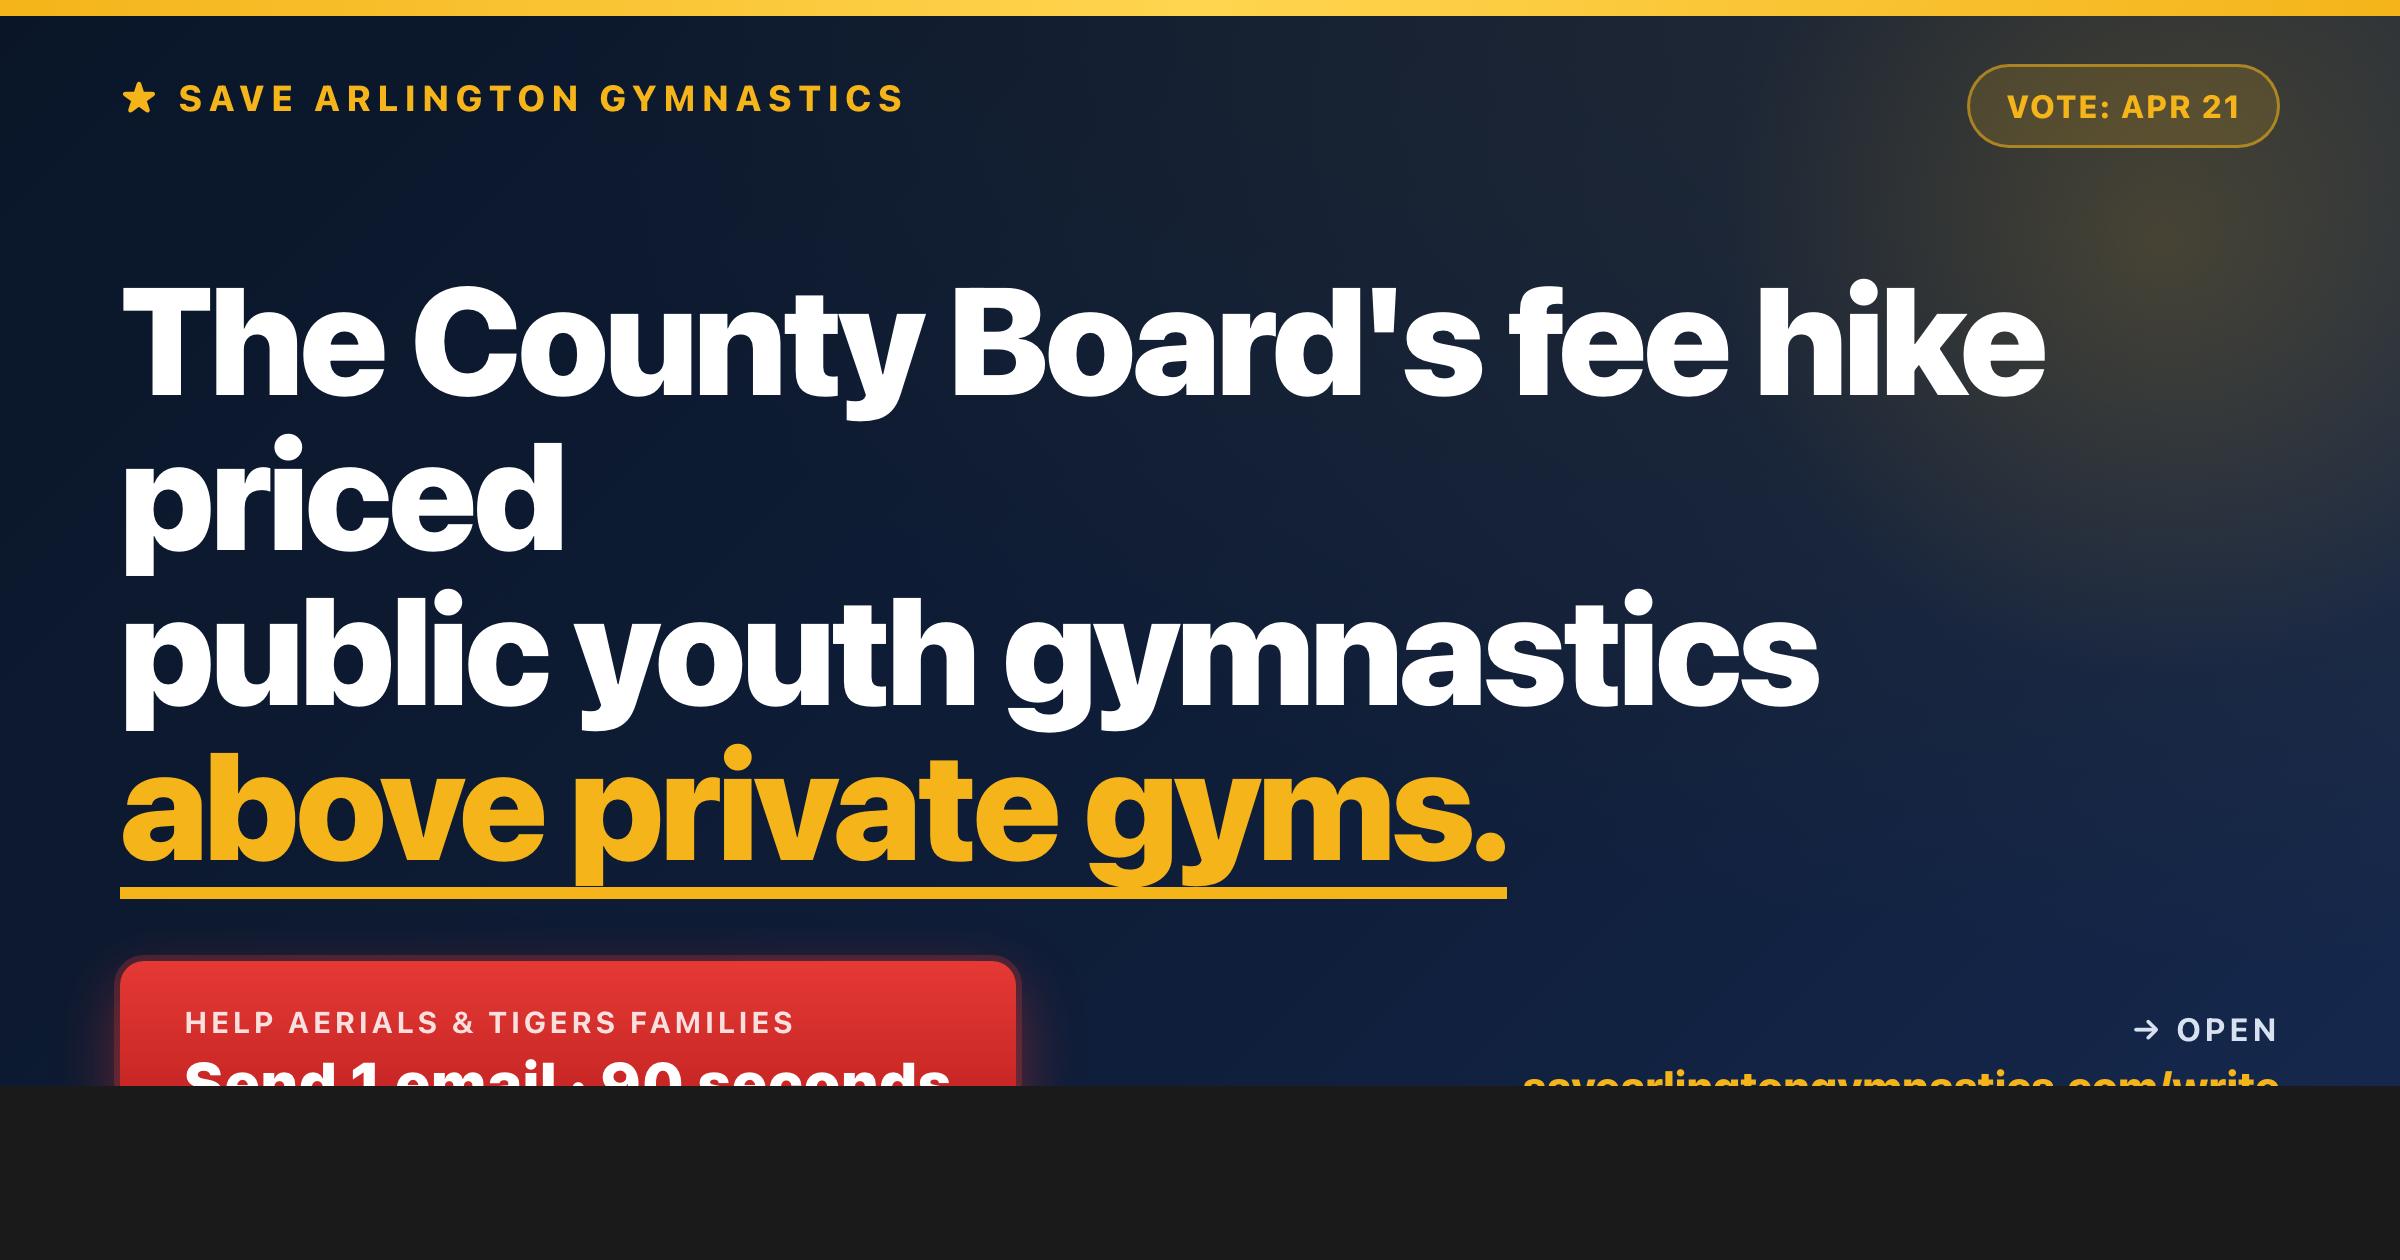
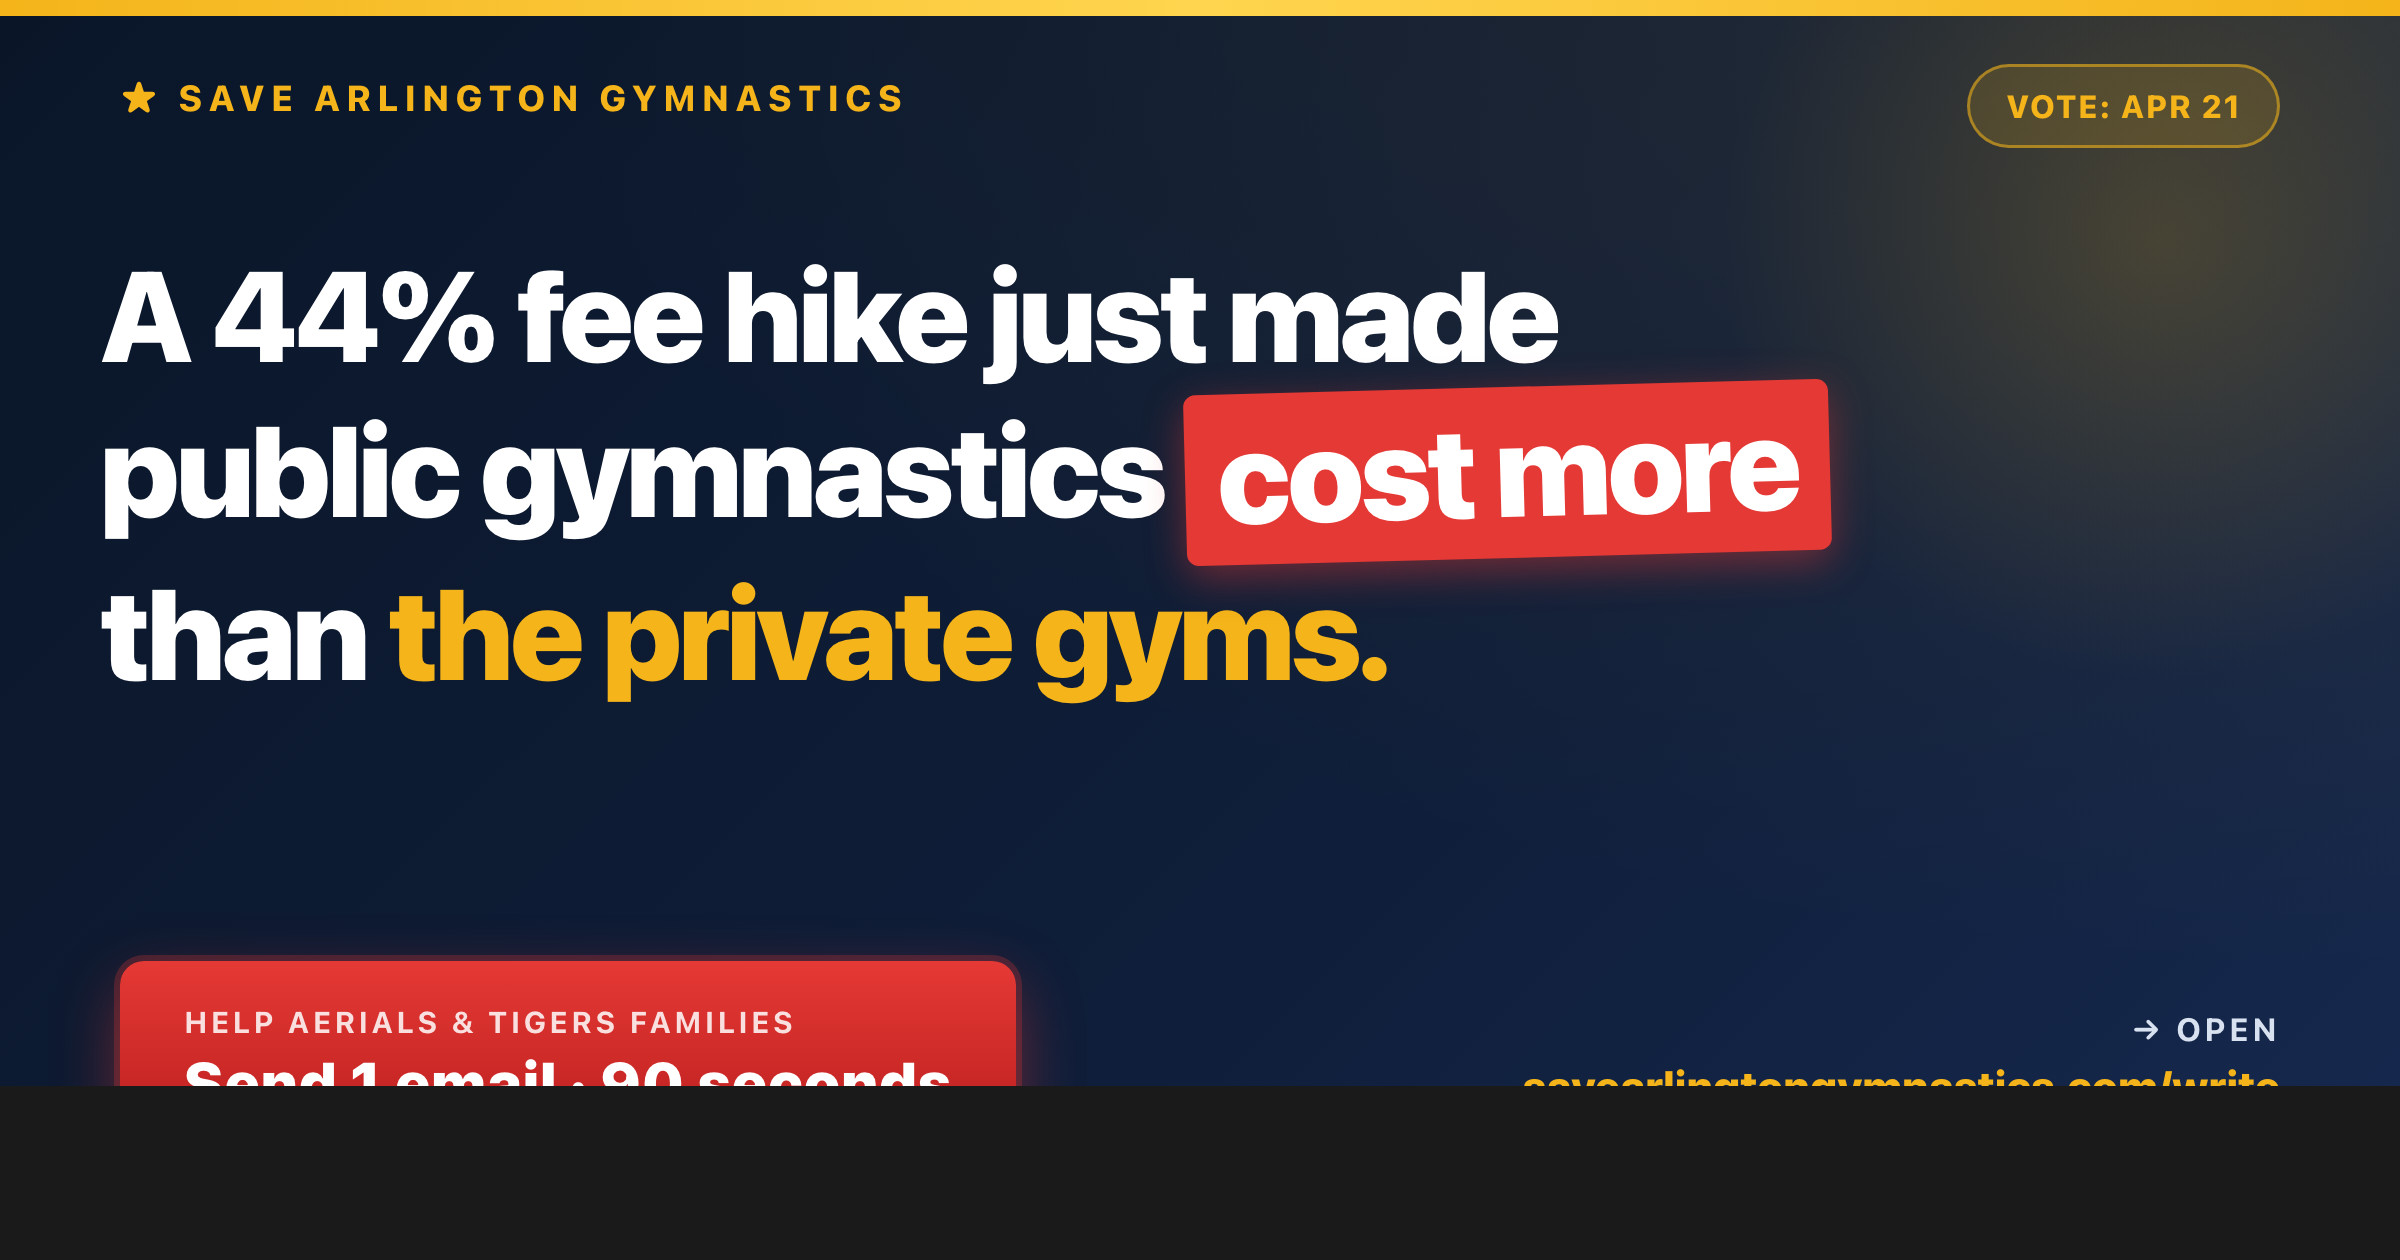
Finalize /write OG image with red-sting variant; align meta descriptions

Changed region(s): [[0.0312, 0.2167, 0.875, 0.5881], [0.0312, 0.5881, 0.625, 0.7119]]

diff --git a/write-og-variants.html b/write-og-variants.html
@@ -1,0 +1,298 @@
+<!DOCTYPE html>
+<html lang="en">
+<head>
+<meta charset="UTF-8">
+<title>OG Variants — Compare</title>
+<link rel="preconnect" href="https://fonts.googleapis.com">
+<link rel="preconnect" href="https://fonts.gstatic.com" crossorigin>
+<link href="https://fonts.googleapis.com/css2?family=Inter:wght@500;700;800;900&display=swap" rel="stylesheet">
+<style>
+  * { box-sizing: border-box; margin: 0; padding: 0; }
+  html, body {
+    background: #1a1a1a;
+    font-family: 'Inter', -apple-system, system-ui, sans-serif;
+    -webkit-font-smoothing: antialiased;
+    padding: 30px 0;
+  }
+  .label {
+    color: #f4b41a;
+    font-weight: 800;
+    font-size: 14px;
+    letter-spacing: 0.15em;
+    text-transform: uppercase;
+    text-align: center;
+    margin: 30px auto 12px;
+    max-width: 1200px;
+  }
+  .label .desc {
+    display: block;
+    color: #aaa;
+    font-size: 13px;
+    font-weight: 500;
+    letter-spacing: 0;
+    text-transform: none;
+    margin-top: 4px;
+  }
+
+  .og {
+    width: 1200px;
+    height: 630px;
+    margin: 0 auto;
+    background:
+      radial-gradient(ellipse at top right, rgba(244,180,26,0.10) 0%, transparent 55%),
+      linear-gradient(135deg, #0a1628 0%, #0f1e3a 60%, #16294f 100%);
+    position: relative;
+    overflow: hidden;
+    color: #ffffff;
+  }
+  .stripe { position:absolute; top:0; left:0; right:0; height:8px;
+    background: linear-gradient(90deg, #f4b41a 0%, #ffd54f 50%, #f4b41a 100%); }
+  .corner-glow { position:absolute; top:-120px; right:-120px; width:480px; height:480px;
+    background: radial-gradient(circle, rgba(244,180,26,0.18) 0%, transparent 65%); pointer-events:none; }
+  .brand { position:absolute; top:38px; left:60px; font-size:18px; font-weight:800; color:#f4b41a;
+    letter-spacing:0.18em; text-transform:uppercase; }
+  .deadline-pill { position:absolute; top:32px; right:60px; background:rgba(244,180,26,0.15);
+    border:1.5px solid rgba(244,180,26,0.55); color:#f4b41a; font-size:16px; font-weight:800;
+    padding:10px 18px; border-radius:999px; letter-spacing:0.05em; text-transform:uppercase; }
+  .cta-band { position:absolute; bottom:50px; left:60px; right:60px;
+    display:flex; align-items:center; justify-content:space-between; gap:32px; }
+  .cta-btn { background:linear-gradient(180deg,#e53935 0%,#b71c1c 100%); color:white;
+    font-size:28px; font-weight:900; padding:22px 32px; border-radius:12px;
+    box-shadow:0 0 0 3px rgba(229,57,53,0.25),0 12px 32px rgba(229,57,53,0.45); line-height:1.1; }
+  .cta-btn .micro { display:block; font-size:15px; font-weight:700;
+    color:rgba(255,255,255,0.85); letter-spacing:0.12em; text-transform:uppercase; margin-bottom:6px; }
+  .cta-btn .main { display:block; font-size:30px; }
+  .url-block { text-align:right; }
+  .url-arrow { font-size:16px; font-weight:700; color:#d8e1f0;
+    letter-spacing:0.12em; text-transform:uppercase; margin-bottom:6px; }
+  .url { font-size:22px; font-weight:800; color:#f4b41a; }
+
+  /* ============ HOOK BASE ============ */
+  .hook {
+    position: absolute;
+    top: 120px; left: 50px; right: 50px;
+    color: #ffffff;
+    font-weight: 900;
+    letter-spacing: -0.03em;
+    line-height: 1.05;
+  }
+
+  /* ============ V1 — NUMBER PUNCH (44% dominates) ============ */
+  .v1 .hook { font-size: 58px; }
+  .v1 .num {
+    font-size: 140px;
+    color: #f4b41a;
+    line-height: 0.9;
+    display: inline-block;
+    vertical-align: -18px;
+    margin-right: 8px;
+    text-shadow: 0 4px 24px rgba(244,180,26,0.35);
+  }
+
+  /* ============ V2 — REVEAL PUNCH (private gyms dominates) ============ */
+  .v2 .hook { font-size: 58px; }
+  .v2 .reveal {
+    display: inline-block;
+    margin-top: 12px;
+    font-size: 92px;
+    line-height: 1.0;
+    color: #f4b41a;
+    border-bottom: 7px solid #f4b41a;
+    padding-bottom: 8px;
+    text-shadow: 0 2px 16px rgba(244,180,26,0.25);
+  }
+
+  /* ============ V3 — RED STING ("cost more" alarm) ============ */
+  .v3 .hook { font-size: 64px; }
+  .v3 .sting {
+    background: #e53935;
+    color: white;
+    padding: 4px 16px 8px;
+    border-radius: 6px;
+    box-shadow: 0 6px 20px rgba(229,57,53,0.45);
+    display: inline-block;
+    transform: rotate(-1.5deg);
+  }
+  .v3 .gold-line { color:#f4b41a; }
+
+  /* ============ V4 — TRIPLE HIERARCHY (all three pop, scaled) ============ */
+  .v4 .hook { font-size: 56px; top: 110px; }
+  .v4 .num-mid { color:#f4b41a; font-size:72px; line-height:1; }
+  .v4 .reveal-big {
+    display:inline-block; margin-top:10px;
+    font-size: 86px; line-height:1.0;
+    color:#f4b41a; border-bottom:7px solid #f4b41a; padding-bottom:8px;
+  }
+
+  /* ============ V5 — COMPARISON BLOCK (visual >, two-column) ============ */
+  .v5 .hook { font-size: 30px; top: 120px; font-weight: 800; color:#d8e1f0; letter-spacing:0; }
+  .v5 .compare {
+    position:absolute; top: 200px; left: 60px; right: 60px;
+    display:flex; align-items:center; justify-content:center; gap: 40px;
+  }
+  .v5 .col {
+    flex: 1;
+    text-align: center;
+    padding: 28px 20px;
+    border-radius: 14px;
+    background: rgba(255,255,255,0.04);
+    border: 1.5px solid rgba(255,255,255,0.08);
+  }
+  .v5 .col.pub { background: rgba(229,57,53,0.12); border-color: rgba(229,57,53,0.4); }
+  .v5 .col-label { font-size: 16px; font-weight:800; letter-spacing:0.12em; text-transform:uppercase;
+    color:#8fa0bf; margin-bottom: 10px; }
+  .v5 .col.pub .col-label { color:#ff8a86; }
+  .v5 .col-value { font-size:54px; font-weight:900; color:white; line-height:1.0; }
+  .v5 .col.pub .col-value { color:#ffd54f; }
+  .v5 .gt {
+    font-size: 100px; font-weight: 900; color: #f4b41a;
+    line-height: 1; text-shadow: 0 0 30px rgba(244,180,26,0.5);
+  }
+  .v5 .caption { position:absolute; top:130px; left:60px; right:60px; text-align:center;
+    font-size: 36px; font-weight: 900; color: white; letter-spacing:-0.02em; }
+</style>
+</head>
+<body>
+
+<!-- ===================== V1 ===================== -->
+<div class="label">VARIANT 1 — Number Punch
+  <span class="desc">"44%" is the visual hero. Credibility-forward — the number does the work.</span>
+</div>
+<div class="og v1">
+  <div class="stripe"></div>
+  <div class="corner-glow"></div>
+  <div class="brand">★ Save Arlington Gymnastics</div>
+  <div class="deadline-pill">Vote: Apr 21</div>
+  <div class="hook">
+    <span class="num">44%</span>fee hike just made<br>
+    public gymnastics cost more<br>
+    than the private gyms.
+  </div>
+  <div class="cta-band">
+    <div class="cta-btn">
+      <span class="micro">Help Aerials &amp; Tigers families</span>
+      <span class="main">Send 1 email &middot; 90 seconds</span>
+    </div>
+    <div class="url-block">
+      <div class="url-arrow">→ Open</div>
+      <div class="url">savearlingtongymnastics.com/write</div>
+    </div>
+  </div>
+</div>
+
+<!-- ===================== V2 ===================== -->
+<div class="label">VARIANT 2 — Reveal Punch
+  <span class="desc">"private gyms" is the visual hero. The setup builds, the punchline lands.</span>
+</div>
+<div class="og v2">
+  <div class="stripe"></div>
+  <div class="corner-glow"></div>
+  <div class="brand">★ Save Arlington Gymnastics</div>
+  <div class="deadline-pill">Vote: Apr 21</div>
+  <div class="hook">
+    A 44% fee hike just made<br>
+    public gymnastics cost more<br>
+    <span class="reveal">than the private gyms.</span>
+  </div>
+  <div class="cta-band">
+    <div class="cta-btn">
+      <span class="micro">Help Aerials &amp; Tigers families</span>
+      <span class="main">Send 1 email &middot; 90 seconds</span>
+    </div>
+    <div class="url-block">
+      <div class="url-arrow">→ Open</div>
+      <div class="url">savearlingtongymnastics.com/write</div>
+    </div>
+  </div>
+</div>
+
+<!-- ===================== V3 ===================== -->
+<div class="label">VARIANT 3 — Red Sting
+  <span class="desc">"cost more" is the visual hero. Alarm/anger frame — most polemic.</span>
+</div>
+<div class="og v3">
+  <div class="stripe"></div>
+  <div class="corner-glow"></div>
+  <div class="brand">★ Save Arlington Gymnastics</div>
+  <div class="deadline-pill">Vote: Apr 21</div>
+  <div class="hook">
+    A 44% fee hike just made<br>
+    public gymnastics <span class="sting">cost more</span><br>
+    than <span class="gold-line">the private gyms.</span>
+  </div>
+  <div class="cta-band">
+    <div class="cta-btn">
+      <span class="micro">Help Aerials &amp; Tigers families</span>
+      <span class="main">Send 1 email &middot; 90 seconds</span>
+    </div>
+    <div class="url-block">
+      <div class="url-arrow">→ Open</div>
+      <div class="url">savearlingtongymnastics.com/write</div>
+    </div>
+  </div>
+</div>
+
+<!-- ===================== V4 ===================== -->
+<div class="label">VARIANT 4 — Triple Hierarchy
+  <span class="desc">Both "44%" AND "private gyms" pop, scaled for hierarchy. Maximalist.</span>
+</div>
+<div class="og v4">
+  <div class="stripe"></div>
+  <div class="corner-glow"></div>
+  <div class="brand">★ Save Arlington Gymnastics</div>
+  <div class="deadline-pill">Vote: Apr 21</div>
+  <div class="hook">
+    A <span class="num-mid">44%</span> fee hike just made<br>
+    public gymnastics cost more<br>
+    <span class="reveal-big">than the private gyms.</span>
+  </div>
+  <div class="cta-band">
+    <div class="cta-btn">
+      <span class="micro">Help Aerials &amp; Tigers families</span>
+      <span class="main">Send 1 email &middot; 90 seconds</span>
+    </div>
+    <div class="url-block">
+      <div class="url-arrow">→ Open</div>
+      <div class="url">savearlingtongymnastics.com/write</div>
+    </div>
+  </div>
+</div>
+
+<!-- ===================== V5 ===================== -->
+<div class="label">VARIANT 5 — Comparison Block
+  <span class="desc">Visual side-by-side. Different layout entirely. Strongest at small sizes.</span>
+</div>
+<div class="og v5">
+  <div class="stripe"></div>
+  <div class="corner-glow"></div>
+  <div class="brand">★ Save Arlington Gymnastics</div>
+  <div class="deadline-pill">Vote: Apr 21</div>
+
+  <div class="caption">After Arlington's 44% fee hike:</div>
+
+  <div class="compare">
+    <div class="col pub">
+      <div class="col-label">Public (Arlington)</div>
+      <div class="col-value">More $$$</div>
+    </div>
+    <div class="gt">&gt;</div>
+    <div class="col">
+      <div class="col-label">Private gyms</div>
+      <div class="col-value">Less $$$</div>
+    </div>
+  </div>
+
+  <div class="cta-band">
+    <div class="cta-btn">
+      <span class="micro">Help Aerials &amp; Tigers families</span>
+      <span class="main">Send 1 email &middot; 90 seconds</span>
+    </div>
+    <div class="url-block">
+      <div class="url-arrow">→ Open</div>
+      <div class="url">savearlingtongymnastics.com/write</div>
+    </div>
+  </div>
+</div>
+
+</body>
+</html>

diff --git a/write/index.html b/write/index.html
@@ -4,13 +4,13 @@
 <meta charset="UTF-8">
 <meta name="viewport" content="width=device-width, initial-scale=1.0">
 <title>Write the Board — Save Arlington Gymnastics</title>
-<meta name="description" content="The Board's 44% fee hike priced public youth gymnastics above private gyms. Send 1 email in 90 seconds before the April 21 vote.">
+<meta name="description" content="A 44% fee hike just made public gymnastics cost more than the private gyms. Send 1 email in 90 seconds before the April 21 vote.">
 
 <!-- Open Graph / Facebook / iMessage / Slack -->
 <meta property="og:type" content="website">
 <meta property="og:url" content="https://savearlingtongymnastics.com/write/">
 <meta property="og:title" content="Help Aerials & Tigers Families — Send 1 Email">
-<meta property="og:description" content="The Board's 44% fee hike priced public youth gymnastics above private gyms. 90 seconds, 1 email, before the April 21 vote.">
+<meta property="og:description" content="A 44% fee hike just made public gymnastics cost more than the private gyms. 90 seconds, 1 email, before the April 21 vote.">
 <meta property="og:image" content="https://savearlingtongymnastics.com/write-og.png">
 <meta property="og:image:width" content="1200">
 <meta property="og:image:height" content="630">
@@ -21,7 +21,7 @@
 <meta name="twitter:card" content="summary_large_image">
 <meta name="twitter:url" content="https://savearlingtongymnastics.com/write/">
 <meta name="twitter:title" content="Help Aerials & Tigers Families — Send 1 Email">
-<meta name="twitter:description" content="The Board's 44% fee hike priced public youth gymnastics above private gyms. 90 seconds, 1 email, before the April 21 vote.">
+<meta name="twitter:description" content="A 44% fee hike just made public gymnastics cost more than the private gyms. 90 seconds, 1 email, before the April 21 vote.">
 <meta name="twitter:image" content="https://savearlingtongymnastics.com/write-og.png">
 
 <link rel="preconnect" href="https://fonts.googleapis.com">

diff --git a/write-og.html b/write-og.html
@@ -65,26 +65,26 @@
     text-transform: uppercase;
   }
 
-  /* HOOK — the punch */
+  /* HOOK — V3: Red Sting */
   .hook {
     position: absolute;
-    top: 130px; left: 60px; right: 60px;
-    font-size: 76px;
+    top: 120px; left: 50px; right: 50px;
+    font-size: 64px;
     font-weight: 900;
-    line-height: 1.02;
-    letter-spacing: -0.025em;
+    line-height: 1.15;
+    letter-spacing: -0.03em;
     color: #ffffff;
   }
-  .hook .accent {
-    color: #f4b41a;
+  .hook .sting {
+    background: #e53935;
+    color: white;
+    padding: 4px 16px 8px;
+    border-radius: 6px;
+    box-shadow: 0 6px 20px rgba(229,57,53,0.45);
     display: inline-block;
+    transform: rotate(-1.5deg);
   }
-  .hook .strike-line {
-    display: inline-block;
-    border-bottom: 6px solid #f4b41a;
-    padding-bottom: 6px;
-    line-height: 0.95;
-  }
+  .hook .gold-line { color: #f4b41a; }
 
   /* Bottom band: CTA + URL */
   .cta-band {
@@ -150,11 +150,11 @@
   <div class="brand">★ Save Arlington Gymnastics</div>
   <div class="deadline-pill">Vote: Apr 21</div>
 
-  <!-- HOOK -->
+  <!-- HOOK — V3: Red Sting -->
   <div class="hook">
-    The County Board's fee hike priced<br>
-    public youth gymnastics<br>
-    <span class="strike-line"><span class="accent">above private gyms.</span></span>
+    A 44% fee hike just made<br>
+    public gymnastics <span class="sting">cost more</span><br>
+    than <span class="gold-line">the private gyms.</span>
   </div>
 
   <!-- CTA -->
